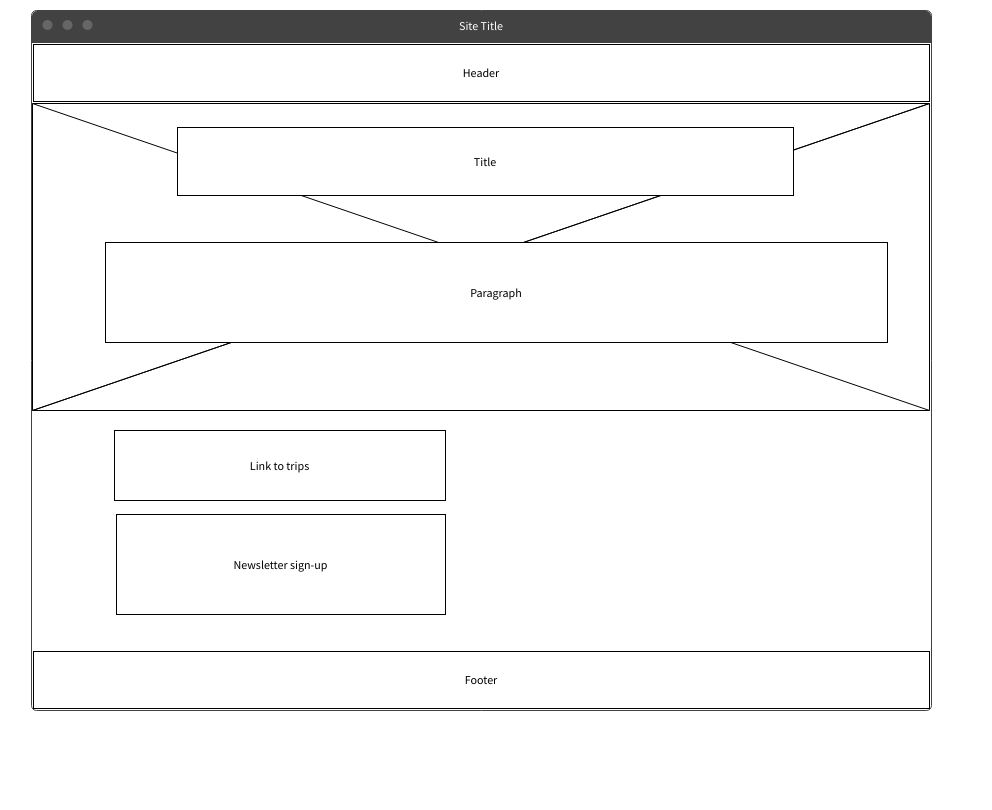
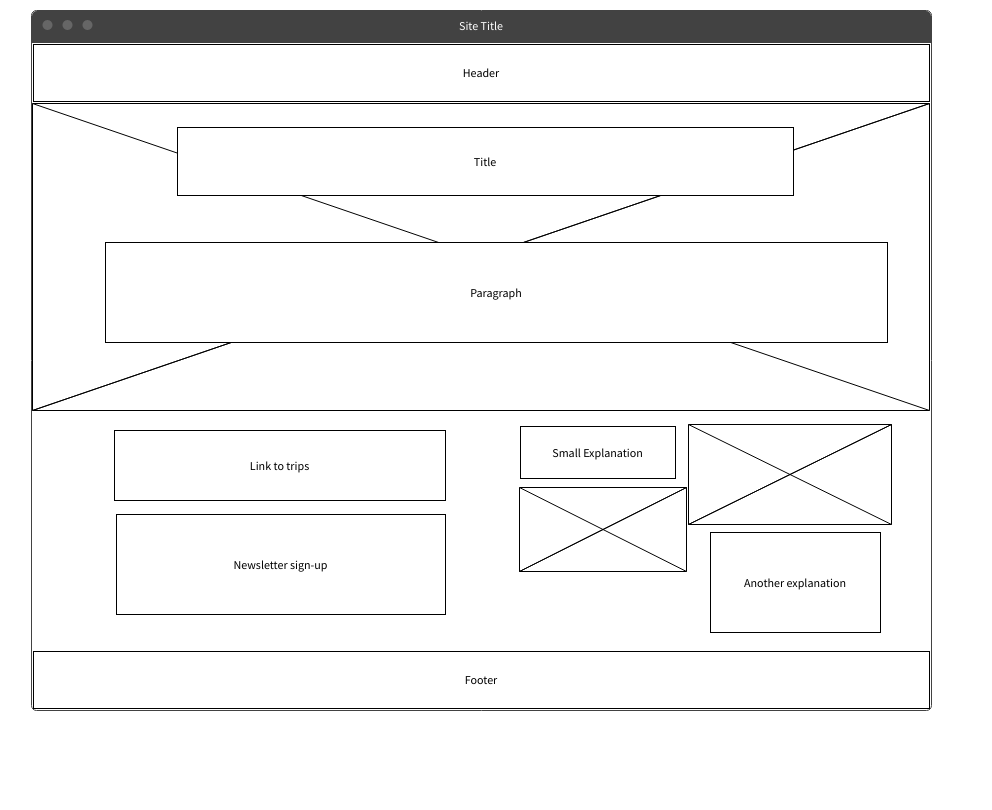
Updated index and trips

diff --git a/wwr/index.html b/wwr/index.html
@@ -25,14 +25,26 @@
                 </article>
             </div>
         </main>
-        <aside>
-            <h2><a href="trips.html">Check out our trip options!</a></h2>
-            <h3>Sign up for our newsletter!</h3>
-            <label for="name">Your name:</label>
-            <input type="text" id="name" name="name" value=""><br>
-            <label for="emailAddress">Email Address:</label>
-            <input type="text" id="emailAddress" name="emailAddress" value=""><br>
-            <button type="button" id="submit">Submit!</button>
+        <aside class="homeAside">
+            <div>
+                <button type="button" onclick="window.location.href='trips.html';">Check out our Trips page!</button>
+                <h3>Sign up for our newsletter!</h3>
+                <label for="name">Your name:</label>
+                <input type="text" id="name" name="name" value=""><br>
+                <label for="emailAddress">Email Address:</label>
+                <input type="text" id="emailAddress" name="emailAddress" value=""><br>
+                <button type="button" id="submit">Submit!</button>
+            </div>
+            <div>
+                <figure>
+                    <img src="images/rafting_1.png" alt="Fun for beginners!">
+                    <figcaption>We provide equipment and training to those who need it.</figcaption>
+                </figure>
+                <figure>
+                    <img src="images/rafting_4.jpg" alt="Fun for experts!">
+                    <figcaption>We also welcome those with more experience and have thier own gear!</figcaption>
+                </figure>
+            </div>
         </aside>
         <footer>
             <p>&#169; 2023 | Matthew Burrell | White Water Rafting | <a href="images/homeWireframe.png">Wireframe</a></p>

diff --git a/wwr/styles/rafting.css b/wwr/styles/rafting.css
@@ -83,8 +83,6 @@ nav a:hover {
     width:100%;
 }
 
-
-
 .centered {
     position: absolute;
     top: 10%;
@@ -183,6 +181,11 @@ main {
     gap: 1rem;
 }
 
+.tripsMain table tr, td{
+    border: 1px solid black;
+    background-color: #aabda2;
+}
+
 figure{
     margin: 0;
 }
@@ -198,4 +201,17 @@ main div{
 
 .bottom {
     grid-column: 1/3;
+}
+
+.homeAside {
+    display: grid;
+    grid-template-columns: 1fr 1fr;
+}
+.homeAside figure{
+    text-align: center;
+    margin: 0;
+}
+
+.homeAside figure img{
+    width: 200px;
 }

diff --git a/wwr/trips.html b/wwr/trips.html
@@ -16,8 +16,7 @@
                 <a href="contact.html">Contact Us</a>
             </nav>
         </header>
-        <h1><a href="contact.html">View our Contact Us page to see our contact information!</a></h1>
-        <main class="tripsMain">
+        <button type="button" onclick="window.location.href='contact.html';">Check out our Contacts page!</button>        <main class="tripsMain">
             <table>
                 <tr>
                     <th>Name of route</th>
